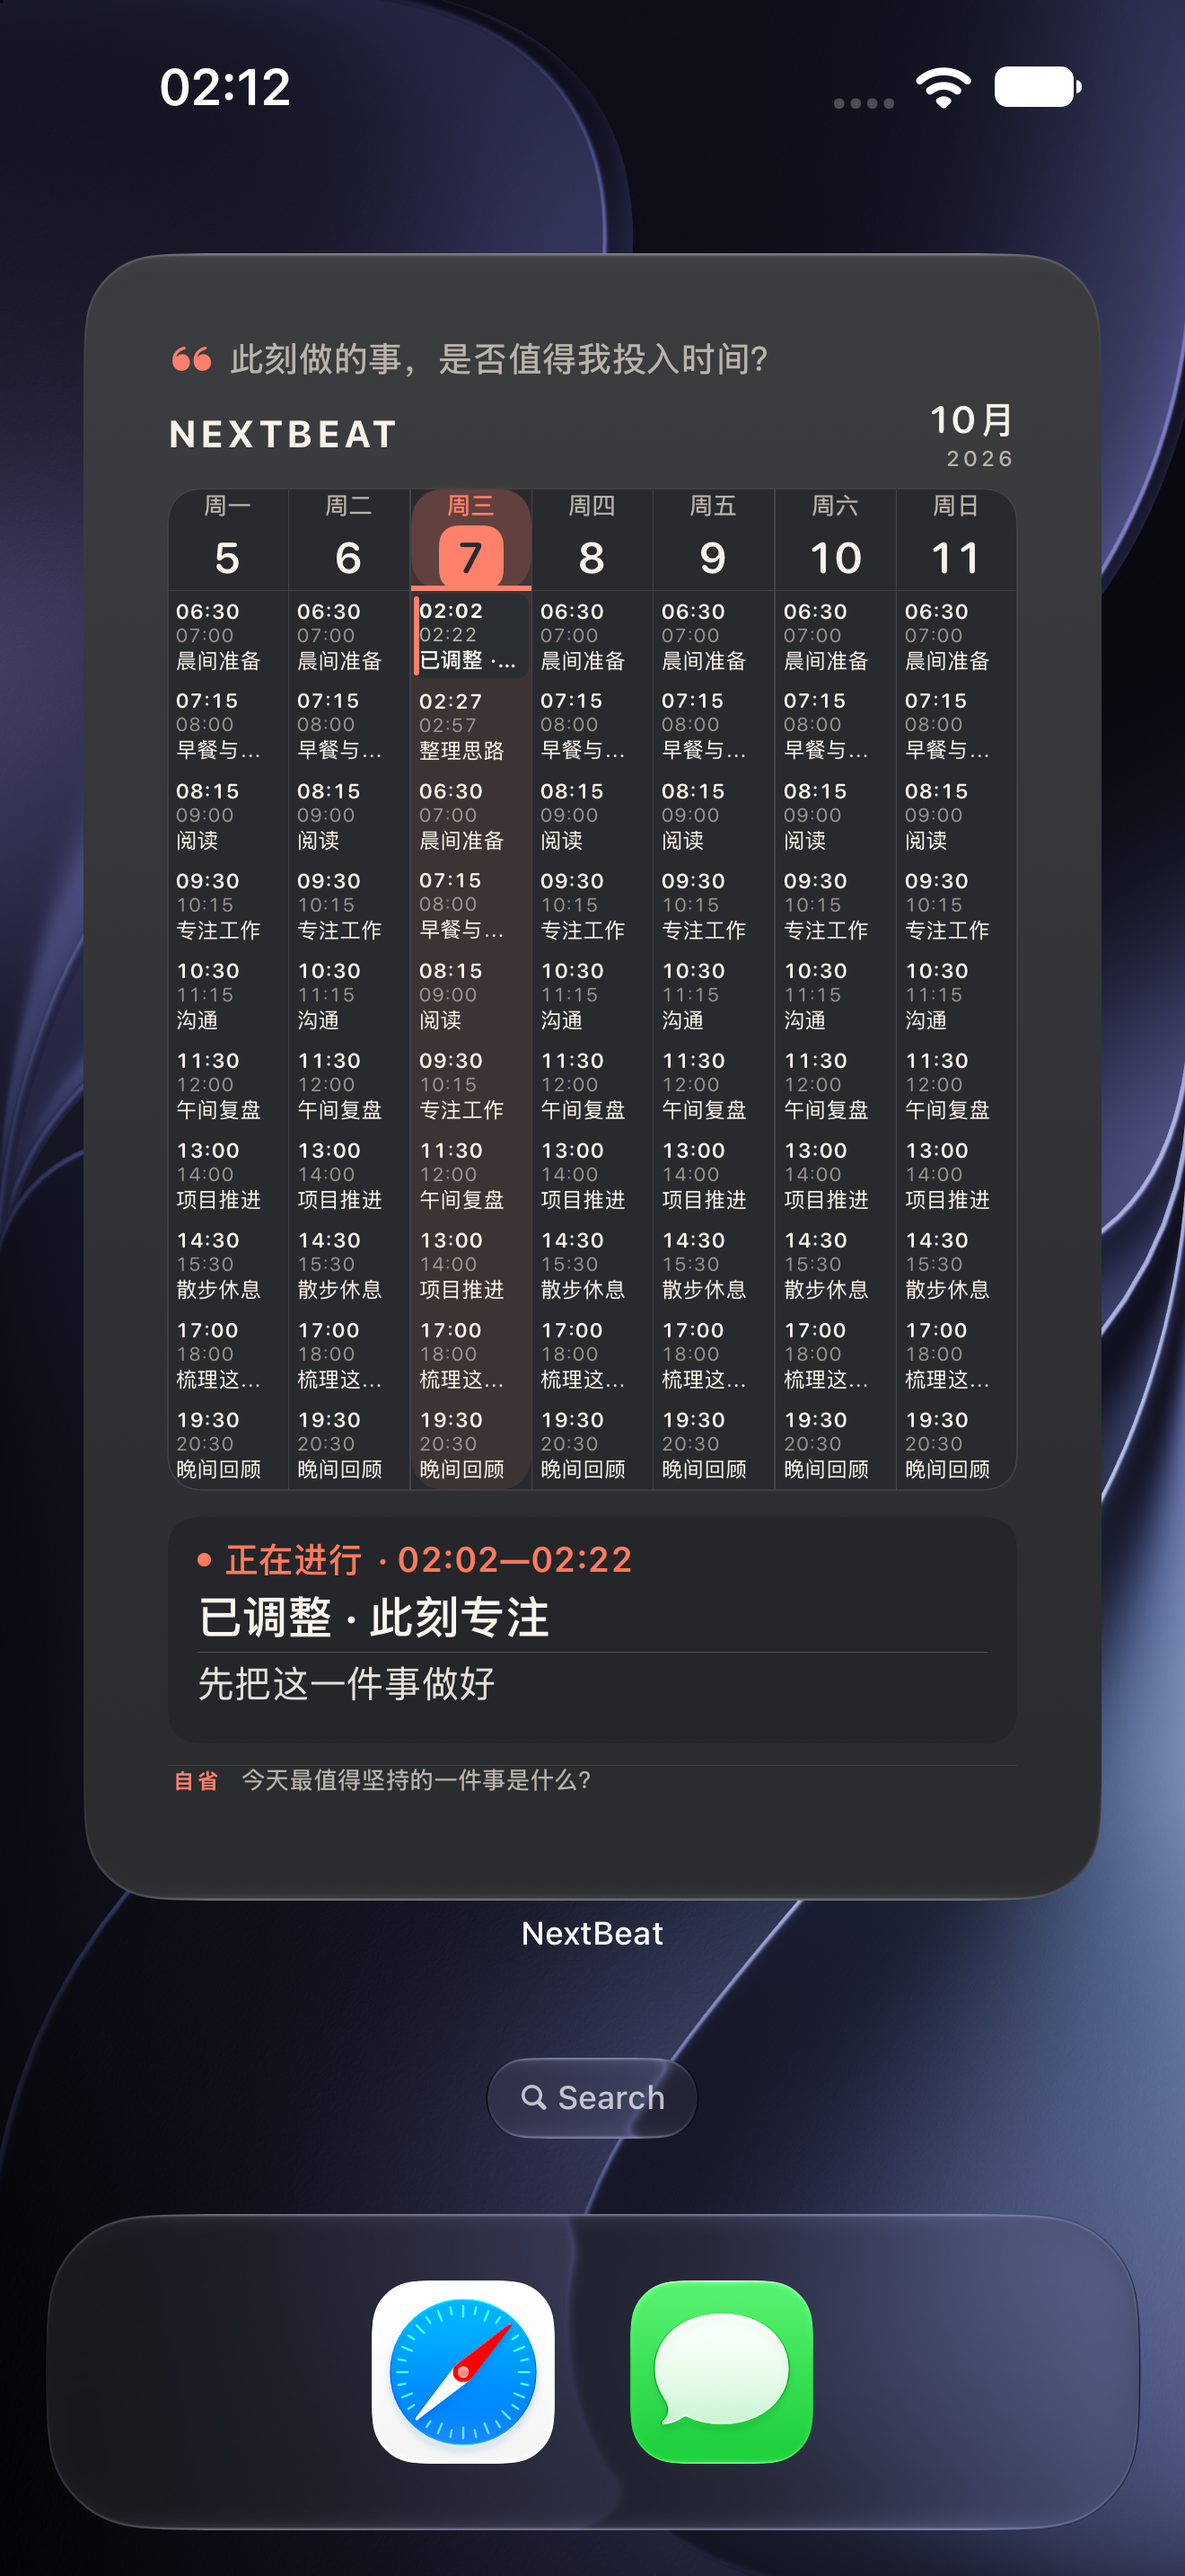
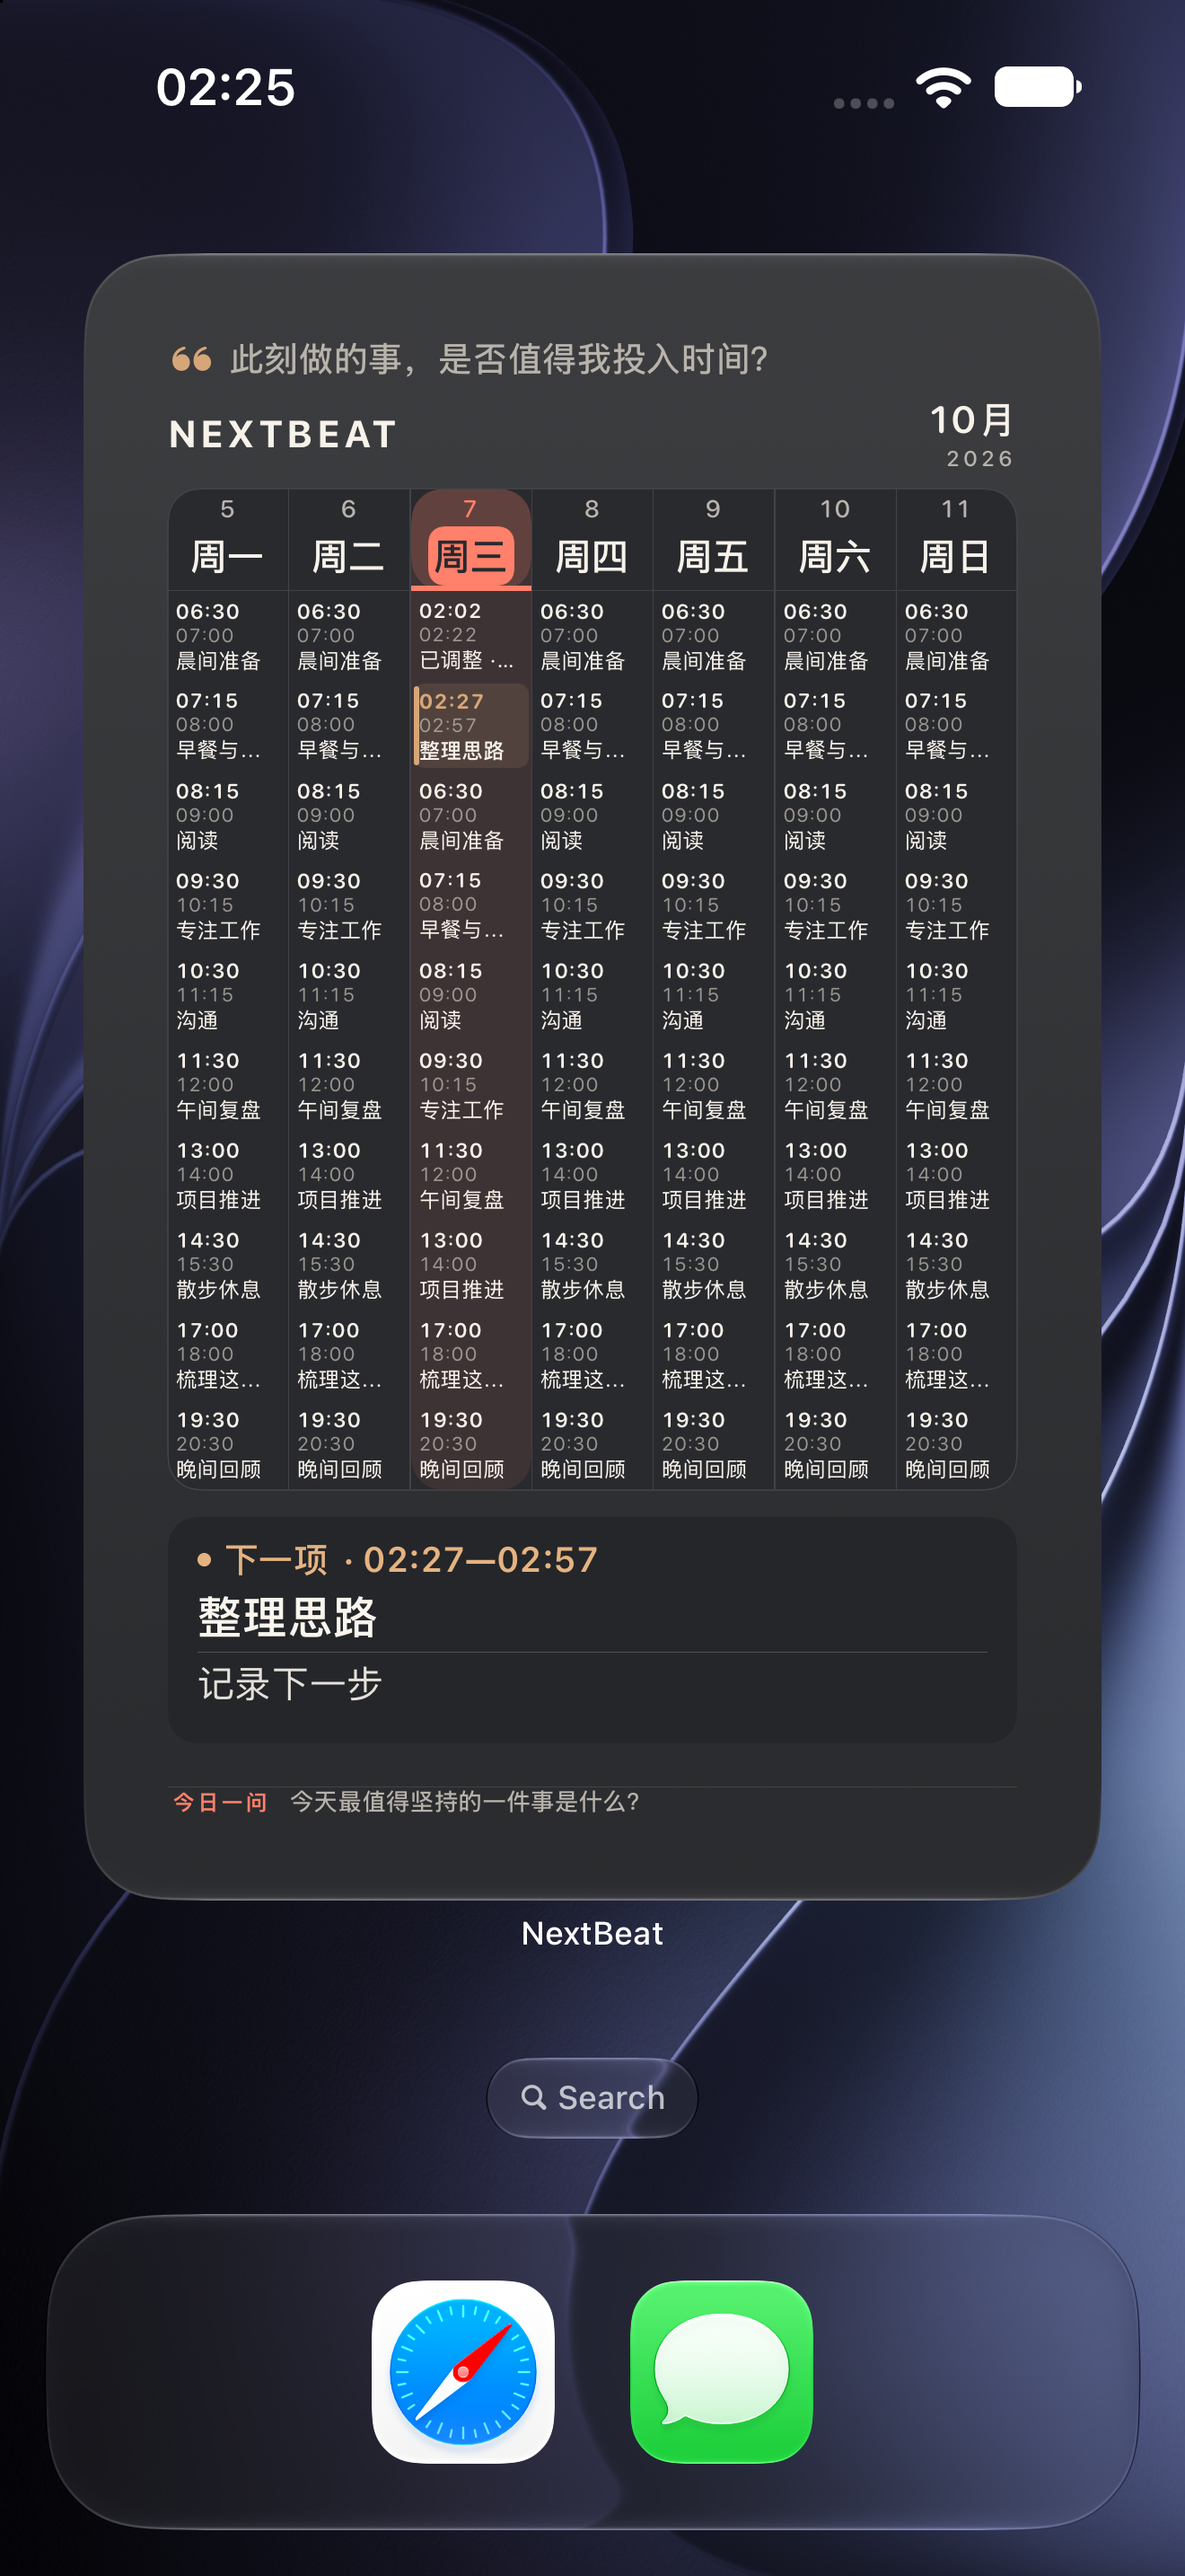
Emphasize weekdays and refine widget reflection footer

diff --git a/Widget/NextBeatWidget.swift b/Widget/NextBeatWidget.swift
@@ -83,8 +83,8 @@ struct NextBeatWidgetEntryView: View {
     @Environment(\.colorScheme) private var colorScheme
     @ScaledMetric(relativeTo: .caption2) private var scaledGridTime: CGFloat = 7.8
     @ScaledMetric(relativeTo: .caption) private var scaledGridTitle: CGFloat = 9.3
-    @ScaledMetric(relativeTo: .caption2) private var scaledWeekday: CGFloat = 9
-    @ScaledMetric(relativeTo: .caption2) private var scaledDayNumber: CGFloat = 16
+    @ScaledMetric(relativeTo: .caption2) private var scaledWeekday: CGFloat = 14
+    @ScaledMetric(relativeTo: .caption2) private var scaledDayNumber: CGFloat = 9
     @ScaledMetric(relativeTo: .caption2) private var scaledQuoteHeight: CGFloat = 22
     @ScaledMetric(relativeTo: .caption) private var scaledHeadingHeight: CGFloat = 25
     @ScaledMetric(relativeTo: .body) private var scaledFocusHeight: CGFloat = 96
@@ -245,7 +245,7 @@ struct NextBeatWidgetEntryView: View {
                 }
                 if showsFooterReflection {
                     footerReflection
-                        .frame(height: footerReflectionHeight)
+                        .frame(height: footerReflectionHeight, alignment: .bottom)
                 }
             }
             .padding(12)
@@ -282,17 +282,20 @@ struct NextBeatWidgetEntryView: View {
         let dayNumber = dateParts(day.date)?.day ?? index + 1
 
         return VStack(spacing: 0) {
-            VStack(spacing: 2) {
-                Text(weekdays[index])
-                    .font(.system(size: min(scaledWeekday, 15), weight: isToday ? .semibold : .medium))
-                    .foregroundStyle(isToday ? accent : mutedInk)
+            VStack(spacing: 1) {
                 Text("\(dayNumber)")
-                    .font(.system(size: min(scaledDayNumber, 21), weight: .semibold, design: .rounded).monospacedDigit())
+                    .font(.system(size: min(scaledDayNumber, 12), weight: .medium, design: .rounded).monospacedDigit())
+                    .foregroundStyle(isToday ? accent : mutedInk)
+                    .frame(height: min(14, max(11, scaledDayNumber + 2)))
+                Text(weekdays[index])
+                    .font(.system(size: min(scaledWeekday, 15), weight: .semibold))
                     .foregroundStyle(isToday ? surface : ink)
-                    .frame(minWidth: 24, minHeight: 24)
+                    .lineLimit(1)
+                    .minimumScaleFactor(0.85)
+                    .frame(minWidth: 32, minHeight: 22)
                     .background {
                         if isToday {
-                            RoundedRectangle(cornerRadius: 7).fill(accent)
+                            RoundedRectangle(cornerRadius: 6).fill(accent)
                         }
                     }
             }
@@ -436,7 +439,7 @@ struct NextBeatWidgetEntryView: View {
 
     private var footerReflection: some View {
         HStack(alignment: .firstTextBaseline, spacing: 7) {
-            Text("自省")
+            Text("今日一问")
                 .font(.system(size: 8, weight: .bold))
                 .tracking(1.1)
                 .foregroundStyle(accent)
@@ -453,7 +456,7 @@ struct NextBeatWidgetEntryView: View {
             Rectangle().fill(rule).frame(height: 0.5)
         }
         .accessibilityElement(children: .combine)
-        .accessibilityLabel("底部自省语：\(entry.reflection.footerText)")
+        .accessibilityLabel("今日一问：\(entry.reflection.footerText)")
     }
 
     private func weekView(expanded: Bool) -> some View {

diff --git a/README.md b/README.md
@@ -10,7 +10,7 @@
 
 NextBeat 提供小号、中号、普通大号及 **iOS 27 的纵向超大号**。Apple 的 [纵向超大号说明](https://developer.apple.com/documentation/widgetkit/widgetfamily/systemextralargeportrait)确认它可放在 iPhone 主屏幕；在当前 iPhone 17 Pro Max 模拟器上，它占据接近整页的主屏幕区域，但系统仍保留状态栏、底部 Dock 等空间。iOS 17–26 可选普通大号。
 
-纵向超大号顶部显示可选自省语；右上角以月份和年份标示本周，具体日期留给七列的日头。中间是周一到周日的**七列课表**，每项将开始与结束时间上下对齐，开始时间用较深字重、结束时间用较浅颜色，第三行显示标题。iPhone 模拟器上已用每天 10 项、共 70 项的计划检查实际显示密度。当天日期使用朱红色块，并用整列淡色区分；正在进行的任务用深色块与朱红细线标记，空档时以暖铜色突出下一项。下方深色区域单独展示当前／下一任务的完整时间范围、标题和提醒语，最底部还有一条可单独设置的简短自省语。长标题在小格中截断，深色区域可显示更多内容；超出可见格数时显示 `+N`，并优先让当前／下一任务留在可见范围。轻点组件可在 App 周视图查看全部事项。普通大号使用一行一天的摘要布局。
+纵向超大号顶部显示可选自省语；右上角以月份和年份标示本周，具体日期留给七列的日头。中间是周一到周日的**七列课表**，表头以上方的小号日期数字辅助下方较大的星期名称；当天星期使用朱红色块，并用整列淡色区分。每项将开始与结束时间上下对齐，开始时间用较深字重、结束时间用较浅颜色，第三行显示标题。iPhone 模拟器上已用每天 10 项、共 70 项的计划检查实际显示密度。正在进行的任务用深色块与朱红细线标记，空档时以暖铜色突出下一项。下方深色区域单独展示当前／下一任务的完整时间范围、标题和提醒语，最底部留有一条可单独设置的“今日一问”。长标题在小格中截断，深色区域可显示更多内容；超出可见格数时显示 `+N`，并优先让当前／下一任务留在可见范围。轻点组件可在 App 周视图查看全部事项。普通大号使用一行一天的摘要布局。
 
 配色取自 App 图标：暖纸白、石墨黑与少量朱红；深色模式使用深石墨背景与柔和米白文字。大字体模式会放大标题及底部提醒区，课表数字限制在能完整显示起止时间的字号范围；可见格数减少时用 `+N` 提示其余事项，完整内容始终可在 App 内查看。组件为任务起止和跨日节点准备滚动时间线，每次预生成最多 36 条记录，并提前请求下一批，避免密集计划产生过大的 WidgetKit 归档。系统决定实际展示和重载时机，不能保证按秒或严格按分钟切换。
 
